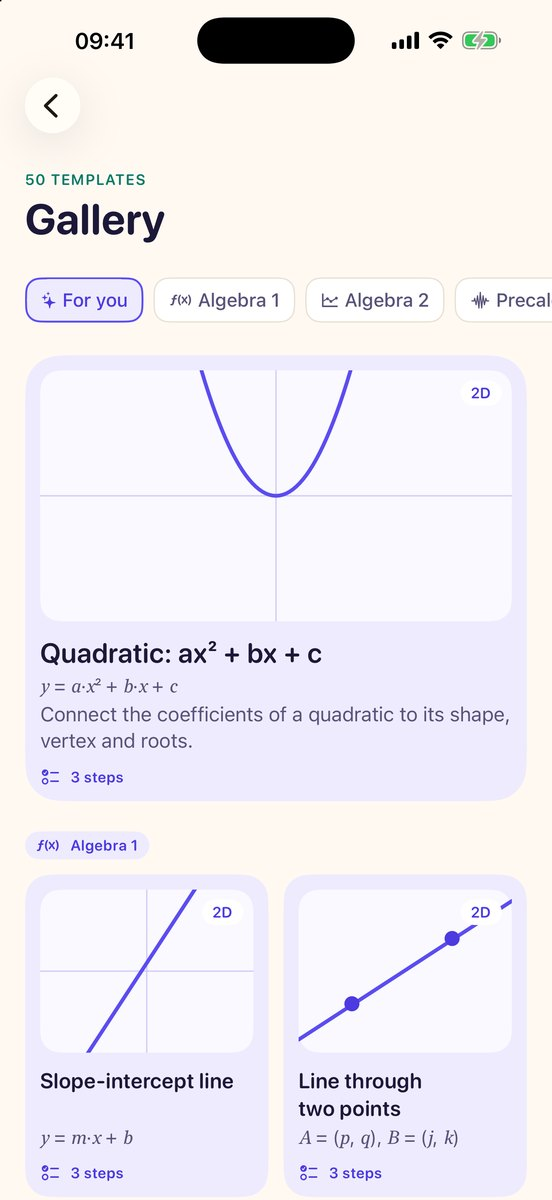
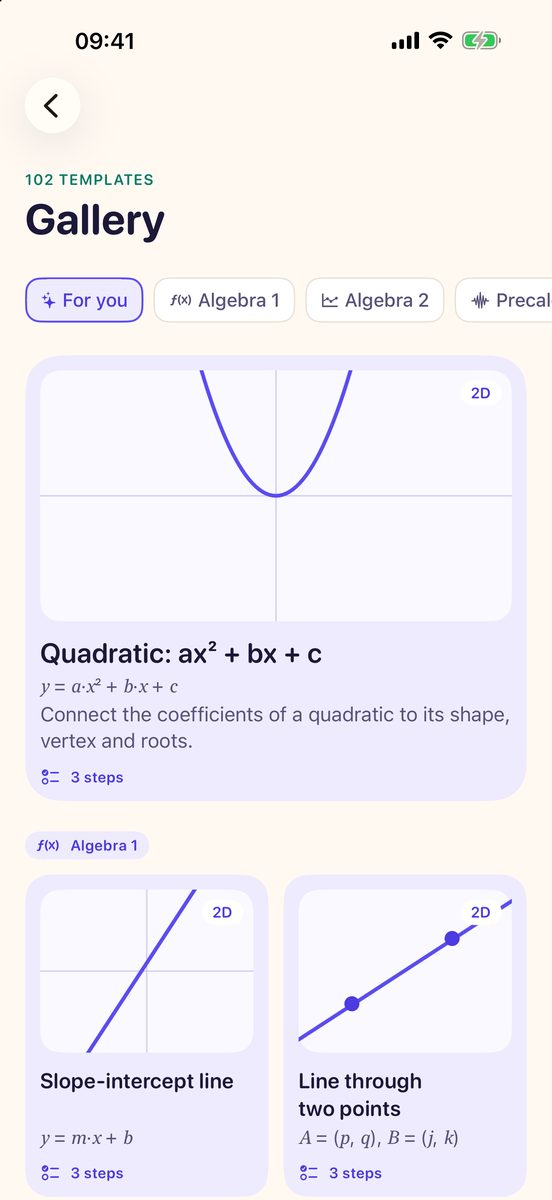
VizMath: direct manipulation, Show on TV, data, Apple Vision Pro, 100+ lessons
- Hero, meta descriptions and stats: drag the graph itself, Apple Vision Pro
  (5 devices), 100+ lessons
- New cards: Show it on the class TV, Data and statistics, On Apple Vision Pro
- 2D kinds (sequences, series, slope and vector fields), 3D peak dragging,
  VoiceOver move actions
- "One purchase" lines include Apple Vision Pro (page, support FAQ)
- Languages card corrected: lessons and worked steps are in English
- Gallery screenshots recaptured (102 templates)
- Vietnamese and Spanish translations updated

Changed region(s): [[0.3388, 0.0, 0.6467, 0.0617], [0.0308, 0.1233, 0.2772, 0.1542]]

diff --git a/vizmath.html b/vizmath.html
@@ -4,7 +4,7 @@
 <meta charset="UTF-8">
 <meta name="viewport" content="width=device-width, initial-scale=1.0">
 <title data-i18n="meta.title">VizMath: 3D Math Visualizer — graph, solve and explore</title>
-<meta name="description" data-i18n-content="meta.description" content="Graph equations, drag sliders, see surfaces in 3D, build geometry constructions and solve problems step by step on iPhone, iPad, Mac and Apple Watch. No account, no ads, no tracking.">
+<meta name="description" data-i18n-content="meta.description" content="Graph equations, drag the graph itself, see surfaces in 3D, build geometry and solve problems step by step, then show them on the class TV. iPhone, iPad, Mac, Apple Vision Pro and Apple Watch. No account, no ads, no tracking.">
 <meta name="apple-mobile-web-app-title" content="ORIENTPRO">
 <meta name="robots" content="index, follow, max-image-preview:large">
 <link rel="canonical" href="https://orlproducts.com/vizmath.html">
@@ -12,7 +12,7 @@
 <link rel="apple-touch-icon" href="./assets/images/vizmath/icon-512.png">
 <meta property="og:type" content="website">
 <meta property="og:title" data-i18n-content="meta.title" content="VizMath: 3D Math Visualizer — graph, solve and explore">
-<meta property="og:description" data-i18n-content="meta.description" content="Graph equations, drag sliders, see surfaces in 3D, build geometry constructions and solve problems step by step on iPhone, iPad, Mac and Apple Watch. No account, no ads, no tracking.">
+<meta property="og:description" data-i18n-content="meta.description" content="Graph equations, drag the graph itself, see surfaces in 3D, build geometry and solve problems step by step, then show them on the class TV. iPhone, iPad, Mac, Apple Vision Pro and Apple Watch. No account, no ads, no tracking.">
 <meta property="og:url" content="https://orlproducts.com/vizmath.html">
 <meta property="og:image" content="https://orlproducts.com/assets/images/vizmath/ipad-04-3d-ripple-style.jpg">
 <meta name="twitter:card" content="summary_large_image">
@@ -291,9 +291,9 @@ footer .fine{color:var(--foot-line);font-size:12.5px;margin:0}
   <div class="wrap">
     <div>
       <img class="app-icon" src="./assets/images/vizmath/icon-512.png" width="76" height="76" alt="">
-      <span class="eyebrow" data-i18n="hero.eyebrow">iPhone · iPad · Mac · Apple Watch</span>
+      <span class="eyebrow" data-i18n="hero.eyebrow">iPhone · iPad · Mac · Apple Vision Pro · Apple Watch</span>
       <h1 data-i18n="hero.h1">See the math move.</h1>
-      <p class="lede" data-i18n="hero.lede">Type an equation and VizMath draws it. Every extra letter becomes a slider, and as you drag it the curve, its roots and its vertex move with it. Then keep going: surfaces in 3D, geometry constructions, a problem solver that shows every step, and shapes you can stand on your desk in AR.</p>
+      <p class="lede" data-i18n="hero.lede">Type an equation and VizMath draws it. Every extra letter becomes a slider, or grab the graph itself: drag the vertex, a root or a 3D peak and the equation follows. Then keep going: data and statistics, geometry constructions, a problem solver that shows every step, the class TV, your desk in AR and your space on Apple Vision Pro.</p>
       <div class="cta">
         <a class="btn btn-primary" href="#studio" data-i18n="hero.cta.primary">Try it in your browser</a>
         <a class="btn btn-ghost" href="#features" data-i18n="hero.cta.secondary">See what it does</a>
@@ -307,8 +307,8 @@ footer .fine{color:var(--foot-line);font-size:12.5px;margin:0}
 <div class="stats">
   <div class="wrap">
     <div class="stat"><b>2D + 3D</b><span data-i18n="stats.graphs">graphs, surfaces and solids</span></div>
-    <div class="stat"><b>50</b><span data-i18n="stats.lessons">ready-made lessons</span></div>
-    <div class="stat"><b>4</b><span data-i18n="stats.devices">devices: iPhone, iPad, Mac, Watch</span></div>
+    <div class="stat"><b>100+</b><span data-i18n="stats.lessons">ready-made lessons</span></div>
+    <div class="stat"><b>5</b><span data-i18n="stats.devices">devices: iPhone, iPad, Mac, Vision Pro, Watch</span></div>
     <div class="stat"><b>0</b><span data-i18n="stats.data">data collected</span></div>
   </div>
 </div>
@@ -317,13 +317,13 @@ footer .fine{color:var(--foot-line);font-size:12.5px;margin:0}
   <div class="wrap">
     <div class="sec-head">
       <h2 data-i18n="feat.h2">Type it. Drag it. Understand it.</h2>
-      <p data-i18n="feat.sub">Functions, polar and parametric curves, inequalities and implicit curves, all on one graph, all answering back with exact numbers.</p>
+      <p data-i18n="feat.sub">Functions, polar and parametric curves, inequalities, implicit curves, sequences and series, slope and vector fields, all on one graph, all answering back with exact numbers.</p>
     </div>
     <div class="split">
       <img src="./assets/images/vizmath/ipad-02-explain.jpg" width="1200" height="900" data-i18n-alt="feat.alt" alt="VizMath on iPad: a parabola with sliders on the left and an explanation of its vertex and roots on the right" loading="lazy" decoding="async">
       <div>
-        <h3 data-i18n="feat.sliders.h">Letters become sliders</h3>
-        <p data-i18n="feat.sliders.p">Write y = a(x − h)² + k and a, h and k appear as sliders. Drag one and see exactly what that number does to the shape.</p>
+        <h3 data-i18n="feat.sliders.h">Letters become sliders, or drag the graph</h3>
+        <p data-i18n="feat.sliders.p">Write y = a(x − h)² + k and a, h and k appear as sliders. Drag one and see exactly what that number does. Or drag the vertex itself and watch h and k change; hold a curve to bend it through your finger.</p>
         <h3 data-i18n="feat.exact.h">Exact answers, not just a picture</h3>
         <p data-i18n="feat.exact.p">Roots, vertex, intercepts, extrema, asymptotes and intersections are worked out and marked on the graph, as exact values where they exist.</p>
         <h3 data-i18n="feat.explain.h">Explanations you can check</h3>
@@ -339,7 +339,7 @@ footer .fine{color:var(--foot-line);font-size:12.5px;margin:0}
       <img src="./assets/images/vizmath/ipad-04-3d-ripple-style.jpg" width="1200" height="900" data-i18n-alt="s3d.alt" alt="A ripple surface in 3D with labeled axes, grid lines and a height color scale" loading="lazy" decoding="async">
       <div>
         <h2 data-i18n="s3d.h2">Surfaces you can walk around</h2>
-        <p data-i18n="s3d.p1">Explicit, parametric and implicit surfaces, drawn with labeled axes and grid lines. Turn them, color them by height or slope, and cut them with a plane.</p>
+        <p data-i18n="s3d.p1">Explicit, parametric and implicit surfaces, drawn with labeled axes and grid lines. Turn them, color them by height or slope, cut them with a plane, and drag a peak, a valley or a saddle point to reshape the surface.</p>
         <p data-i18n="s3d.p2">On iPhone and iPad, place a surface in the room at its real size with AR, then check it for 3D printing and export it as STL, OBJ or USDZ.</p>
       </div>
     </div>
@@ -383,9 +383,24 @@ footer .fine{color:var(--foot-line);font-size:12.5px;margin:0}
         <p data-i18n="card.story.p">Build a lesson scene by scene and present it, with a presenter view on a second display and Apple Pencil ink and laser pointer.</p>
       </div>
       <div class="card">
+        <div class="ico" aria-hidden="true">&#128250;</div>
+        <h3 data-i18n="card.tv.h">Show it on the class TV</h3>
+        <p data-i18n="card.tv.p">Over AirPlay, a cable or a Mac’s second display, the room screen shows the graph alone, large and live, while you keep editing on your device.</p>
+      </div>
+      <div class="card">
+        <div class="ico" aria-hidden="true">&#128202;</div>
+        <h3 data-i18n="card.data.h">Data and statistics</h3>
+        <p data-i18n="card.data.p">Type data or read a table from a photo. Scatter plots, histograms, box plots and best-fit curves with r² that update as you drag a point.</p>
+      </div>
+      <div class="card">
+        <div class="ico" aria-hidden="true">&#129405;</div>
+        <h3 data-i18n="card.vision.h">On Apple Vision Pro</h3>
+        <p data-i18n="card.vision.p">Open a 3D graph in a volume beside you, turn it with a pinch, move the sliders, and pinch a peak to move it in space.</p>
+      </div>
+      <div class="card">
         <div class="ico" aria-hidden="true">&#128218;</div>
-        <h3 data-i18n="card.lessons.h">50 ready-made lessons</h3>
-        <p data-i18n="card.lessons.p">From slope-intercept lines and vertex form to sine waves, tangent lines and surfaces, sorted by course and ready to open.</p>
+        <h3 data-i18n="card.lessons.h">100+ ready-made lessons</h3>
+        <p data-i18n="card.lessons.p">From slope-intercept lines and vertex form to statistics, sine waves, tangent lines and surfaces, sorted by course and ready to open.</p>
       </div>
       <div class="card">
         <div class="ico" aria-hidden="true">&#128228;</div>
@@ -395,12 +410,12 @@ footer .fine{color:var(--foot-line);font-size:12.5px;margin:0}
       <div class="card">
         <div class="ico" aria-hidden="true">&#9855;</div>
         <h3 data-i18n="card.a11y.h">Graphs you can hear</h3>
-        <p data-i18n="card.a11y.p">VoiceOver reads the graph and plays it as sound, so the shape of a curve comes through without seeing it.</p>
+        <p data-i18n="card.a11y.p">VoiceOver reads the graph and plays it as sound, and can move a point step by step, so the shape of a curve comes through without seeing it.</p>
       </div>
       <div class="card">
         <div class="ico" aria-hidden="true">&#127760;</div>
         <h3 data-i18n="card.lang.h">English, Español, Tiếng Việt</h3>
-        <p data-i18n="card.lang.p">The whole app, including explanations and lessons, in three languages.</p>
+        <p data-i18n="card.lang.p">The app’s screens in three languages; the ready-made lessons and worked steps are in English.</p>
       </div>
       <div class="card">
         <div class="ico" aria-hidden="true">&#128274;</div>
@@ -534,7 +549,7 @@ x^2 + y^2 = 9</textarea>
       <div>
         <h2 data-i18n="ipad.h2">Made for iPad and Mac too</h2>
         <p data-i18n="ipad.p1">The equation list, the canvas and the explanation side by side on a big screen. Present a Math Story on a second display with a presenter view on the iPad, and mark it up with Apple Pencil ink or a laser pointer.</p>
-        <p data-i18n="ipad.p2">One purchase covers iPhone, iPad and Mac.</p>
+        <p data-i18n="ipad.p2">One purchase covers iPhone, iPad, Mac and Apple Vision Pro.</p>
       </div>
     </div>
   </div>
@@ -613,7 +628,7 @@ x^2 + y^2 = 9</textarea>
       <div class="price"><b data-i18n="price.lifetime">Lifetime</b>
         <div class="amt">$79.99</div><small data-i18n="price.lifetime.note">one payment, no renewal</small></div>
     </div>
-    <p class="hero-note" data-i18n="price.fine">Prices shown are US dollars; the App Store charges in your own currency. One purchase covers iPhone, iPad and Mac with the same Apple Account. Subscriptions renew automatically until cancelled in your Apple Account settings at least 24 hours before the period ends.</p>
+    <p class="hero-note" data-i18n="price.fine">Prices shown are US dollars; the App Store charges in your own currency. One purchase covers iPhone, iPad, Mac and Apple Vision Pro with the same Apple Account. Subscriptions renew automatically until cancelled in your Apple Account settings at least 24 hours before the period ends.</p>
   </div>
 </section>
 
@@ -637,7 +652,7 @@ x^2 + y^2 = 9</textarea>
     </details>
     <details>
       <summary data-i18n="faq.restore.q">I paid but Pro is not unlocked.</summary>
-      <p data-i18n="faq.restore.a">Open Settings → Subscription → Restore Purchases. Purchases are tied to your Apple Account, so use the same one you bought with; one purchase unlocks iPhone, iPad and Mac. If it still does not appear, write to us with the date of purchase.</p>
+      <p data-i18n="faq.restore.a">Open Settings → Subscription → Restore Purchases. Purchases are tied to your Apple Account, so use the same one you bought with; one purchase unlocks iPhone, iPad, Mac and Apple Vision Pro. If it still does not appear, write to us with the date of purchase.</p>
     </details>
     <details>
       <summary data-i18n="faq.cancel.q">How do I cancel a subscription?</summary>

diff --git a/vizmath-support.html b/vizmath-support.html
@@ -4,7 +4,7 @@
 <meta charset="UTF-8">
 <meta name="viewport" content="width=device-width, initial-scale=1.0">
 <title data-i18n="sup.h2">Support</title>
-<meta name="description" data-i18n-content="meta.description" content="Graph equations, drag sliders, see surfaces in 3D, build geometry constructions and solve problems step by step on iPhone, iPad, Mac and Apple Watch. No account, no ads, no tracking.">
+<meta name="description" data-i18n-content="meta.description" content="Graph equations, drag the graph itself, see surfaces in 3D, build geometry and solve problems step by step, then show them on the class TV. iPhone, iPad, Mac, Apple Vision Pro and Apple Watch. No account, no ads, no tracking.">
 <meta name="apple-mobile-web-app-title" content="ORIENTPRO">
 <meta name="robots" content="index, follow, max-image-preview:large">
 <link rel="canonical" href="https://orlproducts.com/vizmath-support.html">
@@ -232,7 +232,7 @@ footer .fine{color:var(--foot-line);font-size:12.5px;margin:0}
   <p data-i18n="faq.free.a">VizMath is free to download and use. Pro is for production exports: 4K / 60 fps video, longer video and GIF without the mark, extra-high-resolution images, AR video, Print Fix Studio, 12-scene stories, and Story video and handouts.</p>
 </details><details>
   <summary data-i18n="faq.restore.q">I paid but Pro is not unlocked.</summary>
-  <p data-i18n="faq.restore.a">Open Settings → Subscription → Restore Purchases. Purchases are tied to your Apple Account, so use the same one you bought with; one purchase unlocks iPhone, iPad and Mac. If it still does not appear, write to us with the date of purchase.</p>
+  <p data-i18n="faq.restore.a">Open Settings → Subscription → Restore Purchases. Purchases are tied to your Apple Account, so use the same one you bought with; one purchase unlocks iPhone, iPad, Mac and Apple Vision Pro. If it still does not appear, write to us with the date of purchase.</p>
 </details><details>
   <summary data-i18n="faq.cancel.q">How do I cancel a subscription?</summary>
   <p data-i18n="faq.cancel.a">Settings → Subscription → Manage Subscription in the app, or in your Apple Account settings. Cancel at least 24 hours before the period renews. Lifetime is a single payment and never renews.</p>

diff --git a/vizmath-privacy.html b/vizmath-privacy.html
@@ -4,7 +4,7 @@
 <meta charset="UTF-8">
 <meta name="viewport" content="width=device-width, initial-scale=1.0">
 <title data-i18n="legal.privacy.title">Privacy Policy</title>
-<meta name="description" data-i18n-content="meta.description" content="Graph equations, drag sliders, see surfaces in 3D, build geometry constructions and solve problems step by step on iPhone, iPad, Mac and Apple Watch. No account, no ads, no tracking.">
+<meta name="description" data-i18n-content="meta.description" content="Graph equations, drag the graph itself, see surfaces in 3D, build geometry and solve problems step by step, then show them on the class TV. iPhone, iPad, Mac, Apple Vision Pro and Apple Watch. No account, no ads, no tracking.">
 <meta name="apple-mobile-web-app-title" content="ORIENTPRO">
 <meta name="robots" content="index, follow, max-image-preview:large">
 <link rel="canonical" href="https://orlproducts.com/vizmath-privacy.html">

diff --git a/vizmath-terms.html b/vizmath-terms.html
@@ -4,7 +4,7 @@
 <meta charset="UTF-8">
 <meta name="viewport" content="width=device-width, initial-scale=1.0">
 <title data-i18n="legal.terms.title">Terms of Use</title>
-<meta name="description" data-i18n-content="meta.description" content="Graph equations, drag sliders, see surfaces in 3D, build geometry constructions and solve problems step by step on iPhone, iPad, Mac and Apple Watch. No account, no ads, no tracking.">
+<meta name="description" data-i18n-content="meta.description" content="Graph equations, drag the graph itself, see surfaces in 3D, build geometry and solve problems step by step, then show them on the class TV. iPhone, iPad, Mac, Apple Vision Pro and Apple Watch. No account, no ads, no tracking.">
 <meta name="apple-mobile-web-app-title" content="ORIENTPRO">
 <meta name="robots" content="index, follow, max-image-preview:large">
 <link rel="canonical" href="https://orlproducts.com/vizmath-terms.html">
